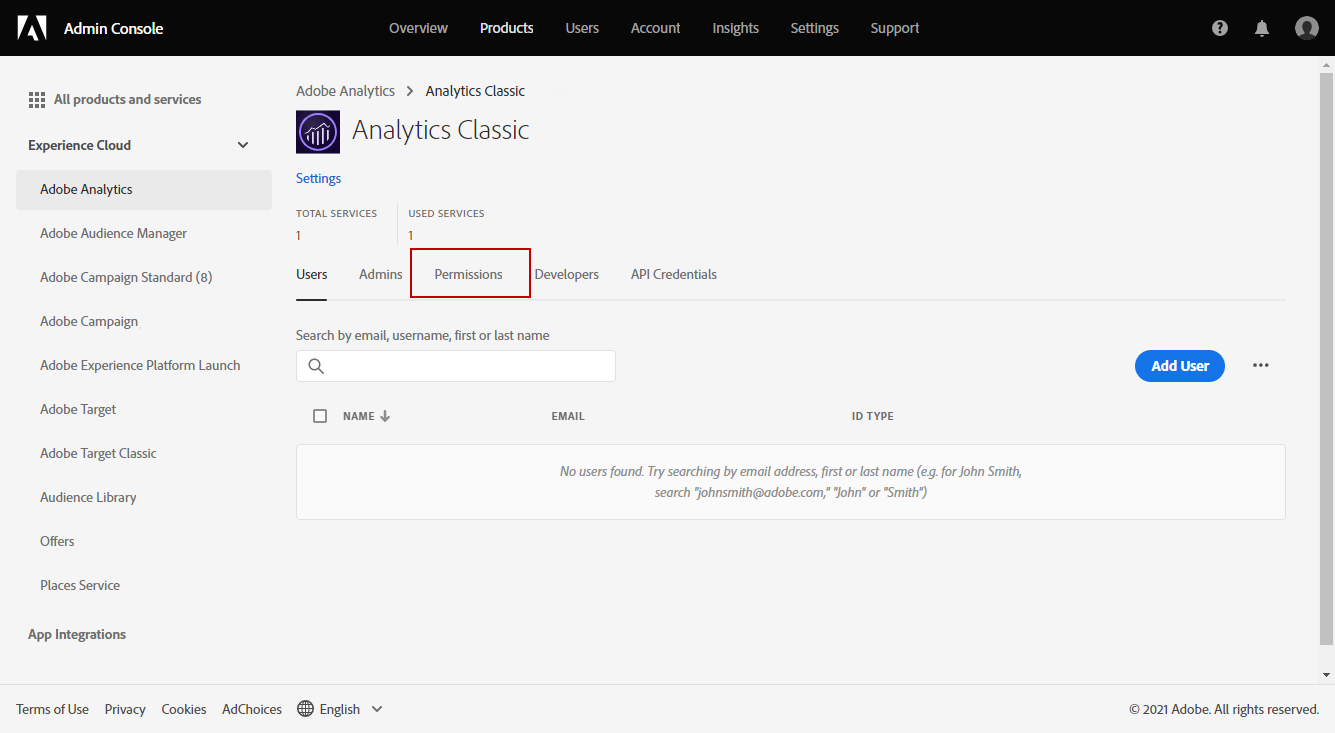
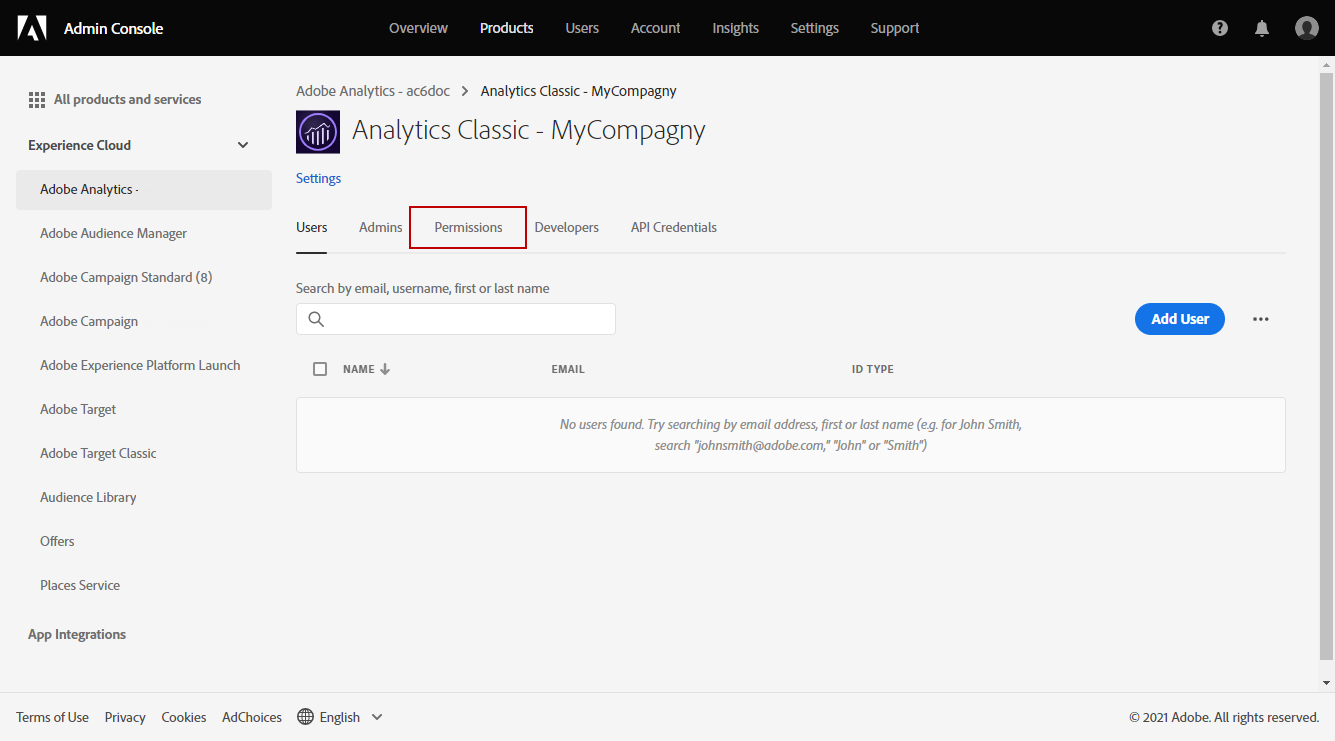
Feedbacks

diff --git a/help/platform/using/adobe-analytics-provisioning.md b/help/platform/using/adobe-analytics-provisioning.md
@@ -21,9 +21,11 @@ For this integration to work, you have to create an Adobe Analytics product prof
 
 ## Create an Adobe Analytics Product profile {#analytics-product-profile}
 
-Product Profile determines the level of access a user has on Analytics Components. Do the steps mentioned below to configure a product profile for Adobe Analytics.
+Product Profile determines the level of access a user has on Analytics Components.
 
-For more information on the Admin console, refer to the [documentation](https://helpx.adobe.com/mt/enterprise/admin-guide.html).
+If you already have an Analytics Product Profile, you should still create a new Adobe Analytics product profile used exclusively for the Analytics connector. This will ensure that your Product profile is set with the correct permissions for this integration. 
+
+For more information on Product profiles, refer to the [Admin console documentation](https://helpx.adobe.com/mt/enterprise/admin-guide.html).
 
 1. From the [Admin console](https://adminconsole.adobe.com/), select your Adobe Analytics **[!UICONTROL Product]**.
 
@@ -33,7 +35,7 @@ For more information on the Admin console, refer to the [documentation](https://
 
     ![](assets/do-not-localize/triggers_2.png)
 
-1. Add a **[!UICONTROL Product profile name]**, we suggest using the following syntax: `Analytics Classic`. Then, click **[!UICONTROL Next]**.
+1. Add a **[!UICONTROL Product profile name]**, we suggest using the following syntax: `Analytics Classic - <Company Name>` or `reserved_campaign_classic_<Company Name>`. Then, click **[!UICONTROL Next]**.
    
    This **[!UICONTROL Product profile]** should be used exclusively for the Analytics Connector to prevent mid-configuration errors.
 
@@ -51,16 +53,16 @@ For more information on the Admin console, refer to the [documentation](https://
 
     ![](assets/do-not-localize/triggers_4.png)
 
-1. For the **[!UICONTROL Metrics]** capability, add the **[!UICONTROL Metrics]** you will need to configure later on.
+1. For the **[!UICONTROL Metrics]** capability, add the **[!UICONTROL Metrics]** you will need to configure later on. 
+
+    If needed, you can switch on the Auto-include option which will add every permissions item into the included list and will automatically add new permission items.
+
+    ![](assets/do-not-localize/triggers_13.png)
 
 1. For the **[!UICONTROL Dimensions]** capability, add the **[!UICONTROL Dimensions]** you will need to configure later on.
 
 1. For the **[!UICONTROL Report Suite Tools]** capability, add the following permissions:
 
-   * **[!UICONTROL Data Warehouse]**
-   * **[!UICONTROL Site Catalyst]**
-   * **[!UICONTROL Report Suite Read]**
-   * **[!UICONTROL Report Suite Write]**
    * **[!UICONTROL Report suite Mgmt]**
    * **[!UICONTROL Conversion variables]**
    * **[!UICONTROL Success events]**
@@ -72,7 +74,6 @@ For more information on the Admin console, refer to the [documentation](https://
 
    * **[!UICONTROL Code Manager - Web services]**
    * **[!UICONTROL Logs - Web services]**
-   * **[!UICONTROL Permissions (Read and Write)]**
    * **[!UICONTROL Web services]**
    * **[!UICONTROL Web service access]**
    * **[!UICONTROL Calculated metric creation]**

diff --git a/help/platform/using/adobe-analytics-connector.md b/help/platform/using/adobe-analytics-connector.md
@@ -41,10 +41,10 @@ The action fields for each tool are as follows:
 
 To set up the Data connector, you must connect to your Adobe Campaign instance and perform the following operations:
 
-1. [Create your Report suite in Adobe Analytics](#report-suite-analytics)
 1. [Configure your Conversion variables and Success events](#configure-conversion-success)
 1. [Configure your external account in Adobe Campaign Classic](#external-account-classic)
 
+<!--
 ### Create your Report suite in Adobe Analytics {#report-suite-analytics}
 
 To set up the Adobe Analytics/Adobe Campaign Classic integration, you must connect to your [!DNL Adobe Analytics] instance and perform the following operations:
@@ -76,12 +76,13 @@ To set up the Adobe Analytics/Adobe Campaign Classic integration, you must conne
    ![](assets/analytics_connnector_4.png)
 
 1. When configured, click **[!UICONTROL Create report suite]**.
+-->
 
 ### Configure your Conversion variables and Success events {#configure-conversion-success}
 
-After creating your **[!UICONTROL Report suite]**, you need to configure your **[!UICONTROL Conversion variables]** and **[!UICONTROL Success events]** as follows:
+You need to configure your **[!UICONTROL Conversion variables]** and **[!UICONTROL Success events]** as follows:
 
-1. Select your previously configured **[!UICONTROL Report suite]**. 
+1. Select the **[!UICONTROL Report suite]** you want to link with Adobe Campaign. 
 
 1. From the **[!UICONTROL Edit settings]** button, select  **[!UICONTROL Conversion]** >  **[!UICONTROL Conversion variables]**.
 
@@ -112,8 +113,12 @@ After creating your **[!UICONTROL Report suite]**, you need to configure your **
    * **[!UICONTROL Unique Opens]**
    * **[!UICONTROL Unsubscribed]**
 
-   To learn how to configure **[!UICONTROL Success events]**, refer to this [section](https://experienceleague.adobe.com/docs/analytics/admin/admin-tools/success-events/t-success-events.html?lang=en#admin-tools)
+   To learn how to configure **[!UICONTROL Success events]**, refer to this [section](https://experienceleague.adobe.com/docs/analytics/admin/admin-tools/success-events/t-success-events.html?lang=en#admin-tools).
 
+   >[!NOTE]
+   >
+   > Only **[!UICONTROL Success events]** of numeric type are supported.
+ 
    ![](assets/analytics_connnector_8.png)
 
 1. Click **[!UICONTROL Save]** when done.
@@ -144,7 +149,7 @@ For more information on this, refer to the [Product profiles for Adobe Analytics
 
 1. Click **[!UICONTROL Configure]** next to the **[!UICONTROL Integration]** drop-down.
 
-1. From the **[!UICONTROL Configure Analytics integration]** window, map your external account with your previously created Report suite providing the following information:
+1. From the **[!UICONTROL Configure Analytics integration]** window, map your external account with your Report suite providing the following information:
 
    * **[!UICONTROL E-Mail]**
    * **[!UICONTROL IMS Org]**
